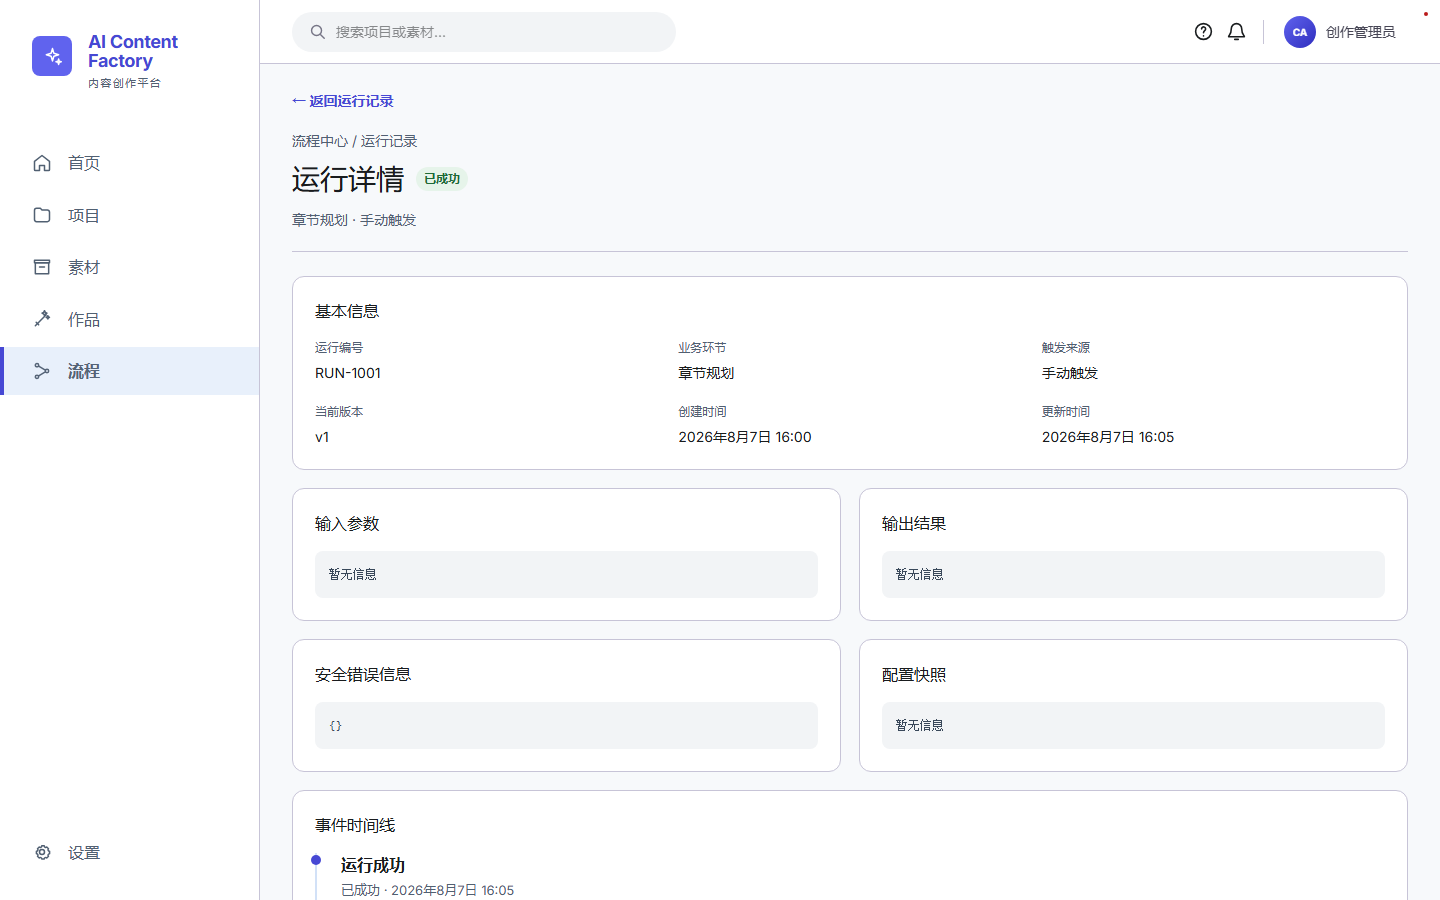
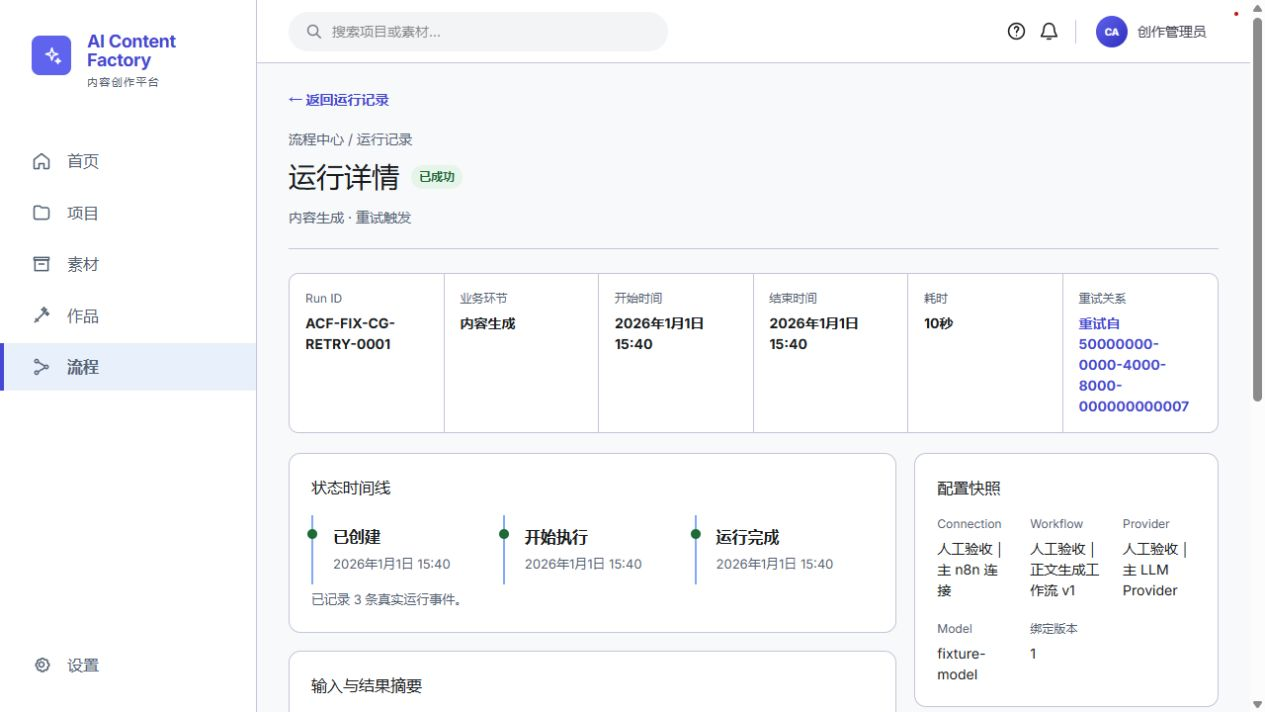
fix(workflow-runs): improve successful run detail

diff --git a/apps/web/src/app/globals.css b/apps/web/src/app/globals.css
@@ -493,6 +493,9 @@ button,a { -webkit-tap-highlight-color:transparent; }
 /* Iteration 14 workflow run detail */
 .workflow-runs-detail-link{color:var(--s00-primary);font-size:13px;font-weight:600;text-decoration:none}.workflow-run-detail-main{min-height:100vh;margin-left:260px;padding:88px 32px 48px;background:var(--s00-surface)}.workflow-run-detail-canvas{max-width:1440px;margin:auto}.workflow-run-detail-canvas>header{display:flex;align-items:end;justify-content:space-between;gap:20px;margin:18px 0 24px;padding-bottom:20px;border-bottom:1px solid var(--s00-outline)}.workflow-run-detail-canvas header p,.workflow-run-detail-canvas header span{margin:0;color:var(--s00-muted);font-size:14px}.workflow-run-detail-canvas h1{display:flex;align-items:center;gap:12px;margin:7px 0;color:var(--s00-ink);font-size:28px}.workflow-run-back{color:var(--s00-primary);font-size:14px;font-weight:600;text-decoration:none}.workflow-run-primary,.workflow-run-danger,.workflow-run-detail-card button,.workflow-run-detail-state button{border:0;border-radius:8px;padding:10px 16px;color:#fff;background:var(--s00-primary);font-weight:700;cursor:pointer}.workflow-run-danger{background:#a3232a}.workflow-run-detail-card{margin:18px 0;padding:22px;border:1px solid var(--s00-outline);border-radius:12px;background:#fff}.workflow-run-detail-card h2{margin:0 0 16px;color:var(--s00-ink);font-size:16px}.workflow-run-detail-card dl{display:grid;grid-template-columns:repeat(3,minmax(0,1fr));gap:20px}.workflow-run-detail-card dt{color:var(--s00-muted);font-size:12px}.workflow-run-detail-card dd{margin:5px 0 0;overflow-wrap:anywhere;color:var(--s00-ink);font-size:14px}.workflow-run-detail-grid{display:grid;grid-template-columns:1fr 1fr;gap:18px}.workflow-run-detail-grid .workflow-run-detail-card{margin:0}.workflow-run-detail-card pre,.workflow-run-timeline pre{max-height:300px;margin:0;padding:14px;overflow:auto;border-radius:8px;color:#39485a;background:var(--s00-low);font:12px/1.6 ui-monospace,Consolas,monospace;white-space:pre-wrap;overflow-wrap:anywhere}.workflow-run-timeline{display:grid;gap:0;margin:0;padding:0;list-style:none}.workflow-run-timeline li{position:relative;padding:0 0 20px 24px;border-left:2px solid #d2e1f7}.workflow-run-timeline li:before{position:absolute;top:2px;left:-6px;width:10px;height:10px;border-radius:50%;background:var(--s00-primary);content:""}.workflow-run-timeline strong,.workflow-run-timeline span{display:block}.workflow-run-timeline span{margin:4px 0 10px;color:var(--s00-muted);font-size:13px}.workflow-run-notice{padding:12px 14px;border-radius:8px;color:#7a271a;background:#ffdad6}.workflow-run-detail-state{display:grid;min-height:440px;place-content:center;justify-items:center;gap:14px;text-align:center}.workflow-run-detail-state span{width:28px;height:28px;border:3px solid #d2e1f7;border-top-color:var(--s00-primary);border-radius:50%;animation:workflow-runs-spin .8s linear infinite}.workflow-run-detail-state h1,.workflow-run-detail-state p{margin:0}.workflow-run-detail-state a{color:var(--s00-primary);font-weight:700}.workflow-run-modal{position:fixed;inset:0;z-index:80;display:grid;place-items:center;padding:24px;background:rgba(25,28,30,.28)}.workflow-run-modal>div{width:min(460px,100%);padding:24px;border-radius:12px;background:#fff;box-shadow:0 24px 48px rgba(15,23,42,.25)}.workflow-run-modal h2{margin:0;color:var(--s00-ink);font-size:20px}.workflow-run-modal p{color:var(--s00-muted);line-height:1.6}.workflow-run-modal footer{display:flex;justify-content:flex-end;gap:12px;margin-top:22px}.workflow-run-modal button{border:1px solid var(--s00-outline);border-radius:8px;padding:9px 14px;color:var(--s00-ink);background:#fff;font-weight:700}.workflow-run-modal button:last-child{border-color:var(--s00-primary);color:#fff;background:var(--s00-primary)}.workflow-run-modal button:disabled{opacity:.55;cursor:not-allowed}@media(max-width:820px){.workflow-run-detail-main{margin-left:0;padding:88px 16px 32px}.workflow-run-detail-canvas>header{align-items:flex-start;flex-direction:column}.workflow-run-detail-card dl,.workflow-run-detail-grid{grid-template-columns:1fr}}
 /* Iteration 14 workflow run center */
+.workflow-run-success-summary{display:grid;grid-template-columns:repeat(6,minmax(120px,1fr));gap:0;margin:0 0 20px;border:1px solid var(--s00-outline);border-radius:10px;background:#fff}.workflow-run-success-summary>div{min-width:0;padding:16px;border-right:1px solid var(--s00-outline)}.workflow-run-success-summary>div:last-child{border-right:0}.workflow-run-success-summary span{display:block;color:var(--s00-muted);font-size:12px}.workflow-run-success-summary strong,.workflow-run-success-summary a{display:block;margin-top:5px;overflow-wrap:anywhere;color:var(--s00-ink);font-size:14px}.workflow-run-success-summary a{color:var(--s00-primary);font-weight:700;text-decoration:none}.workflow-run-success-layout{display:grid;grid-template-columns:minmax(0,1.8fr) minmax(280px,.9fr);gap:18px}.workflow-run-success-layout .workflow-run-detail-card{margin-top:0}.workflow-run-success-aside{display:grid;align-content:start;gap:18px}.workflow-run-success-aside .workflow-run-detail-card{margin:0}.workflow-run-success-timeline{display:grid;grid-template-columns:repeat(3,minmax(0,1fr));gap:12px;margin:0;padding:0;list-style:none}.workflow-run-success-timeline li{position:relative;padding:10px 10px 10px 20px;border-left:2px solid #84a9f4}.workflow-run-success-timeline li:before{position:absolute;top:14px;left:-6px;width:10px;height:10px;border-radius:50%;background:#1e6b36;content:""}.workflow-run-success-timeline strong,.workflow-run-success-timeline span{display:block}.workflow-run-success-timeline span,.workflow-run-success-events,.workflow-run-safe-empty{margin:5px 0 0;color:var(--s00-muted);font-size:13px;line-height:1.6}.workflow-run-success-data{display:grid;grid-template-columns:1fr 1fr;gap:16px}.workflow-run-success-data h3{margin:0 0 8px;color:var(--s00-outline-strong);font-size:12px}.workflow-run-success-data p{margin:0;padding:14px;border-radius:8px;color:var(--s00-muted);background:var(--s00-low);font-size:13px;line-height:1.6}.workflow-run-success-result{display:flex;align-items:center;flex-wrap:wrap;gap:16px}.workflow-run-success-result h2{width:100%;margin-bottom:0}.workflow-run-success-result p{flex:1;min-width:220px;margin:0;color:var(--s00-muted);font-size:14px;line-height:1.65}.workflow-run-success-result .workflow-run-primary{color:#fff;text-decoration:none}.workflow-run-domain-impact{display:grid;gap:8px;margin:0;padding:0;list-style:none}.workflow-run-domain-impact li{display:grid;grid-template-columns:1fr auto;gap:4px 12px;border:1px solid var(--s00-outline);border-radius:7px;padding:10px}.workflow-run-domain-impact strong{color:var(--s00-ink);font-size:13px}.workflow-run-domain-impact span{overflow-wrap:anywhere;color:var(--s00-muted);font-size:12px}.workflow-run-domain-impact em{grid-column:1/-1;color:#1e6b36;font-size:12px;font-style:normal;font-weight:700}
+@media(max-width:1080px){.workflow-run-success-summary{grid-template-columns:repeat(3,minmax(0,1fr))}.workflow-run-success-summary>div:nth-child(3n){border-right:0}.workflow-run-success-layout{grid-template-columns:1fr}}
+@media(max-width:620px){.workflow-run-success-summary,.workflow-run-success-timeline,.workflow-run-success-data{grid-template-columns:1fr}.workflow-run-success-summary>div{border-right:0;border-bottom:1px solid var(--s00-outline)}.workflow-run-success-summary>div:last-child{border-bottom:0}}
 .content-context-tabs{display:flex;margin:-20px -16px 20px;border-bottom:1px solid #dfe2e6}.content-context-tabs button{flex:1;border:0;border-bottom:2px solid transparent;padding:12px 4px;background:#fff;color:#596171;font-weight:800;cursor:pointer}.content-context-tabs button[aria-selected="true"]{border-color:#4648d4;color:#4648d4}.content-generation-drawer{width:min(620px,100%)}.content-generation-drawer fieldset{display:grid;gap:9px;margin:0 0 16px;border:1px solid #dfe2e6;border-radius:8px;padding:12px;color:#313540}.content-generation-drawer fieldset label{display:block;margin:0;font-weight:400}.content-preflight-passed,.content-preflight-blocked{margin-top:14px;border-radius:8px;padding:12px;font-size:13px;line-height:1.55}.content-preflight-passed{border:1px solid #9acfa9;background:#eef9f0}.content-preflight-blocked{border:1px solid #f2aaa3;background:#fff0ee}.content-preflight-passed h3,.content-preflight-blocked h3{margin:0 0 8px}.content-preflight-passed p,.content-preflight-blocked p{margin:5px 0}
 .workflow-runs-main{min-width:0;min-height:100vh;margin-left:260px;padding:88px 32px 48px;background:var(--s00-surface)}.workflow-runs-canvas{width:100%;max-width:1440px;margin:0 auto}.workflow-runs-heading{margin-bottom:28px}.workflow-runs-heading h1{margin:0;color:var(--s00-ink);font-size:32px;line-height:40px;letter-spacing:-.02em}.workflow-runs-heading>p:not(.workflow-runs-breadcrumb):not(.workflow-runs-context){margin:4px 0 0;color:var(--s00-muted);font-size:16px;line-height:24px}.workflow-runs-breadcrumb{display:flex;gap:8px;margin:0 0 8px;color:var(--s00-outline-strong);font-size:12px;letter-spacing:.08em;text-transform:uppercase}.workflow-runs-context{display:inline-block;margin:12px 0 0;padding:5px 10px;border-radius:999px;color:#42526a;background:#e8f0fb;font-size:12px}.workflow-runs-panel{min-width:0;overflow:hidden;border:1px solid var(--s00-outline);border-radius:12px;background:#fff}.workflow-runs-filters{display:flex;align-items:end;gap:12px;flex-wrap:wrap;padding:16px;border-bottom:1px solid var(--s00-outline);background:#fff}.workflow-runs-filters label{display:grid;gap:5px;color:var(--s00-outline-strong);font-size:12px;font-weight:600}.workflow-runs-filters input,.workflow-runs-filters select{height:38px;border:1px solid var(--s00-outline);border-radius:8px;padding:0 12px;outline:none;color:var(--s00-ink);background:#fff;font-size:14px;font-weight:400}.workflow-runs-filters input:focus,.workflow-runs-filters select:focus{border-color:var(--s00-primary);box-shadow:0 0 0 3px rgba(70,72,212,.12)}.workflow-runs-search{width:260px}.workflow-runs-search input{box-sizing:border-box;width:100%}.workflow-runs-reset{height:38px;margin-left:auto;border:0;border-radius:8px;padding:0 12px;color:var(--s00-primary);background:transparent;font-size:14px;font-weight:600;cursor:pointer}.workflow-runs-reset:hover{background:rgba(70,72,212,.08)}.workflow-runs-table{min-width:1120px}.workflow-runs-table-head,.workflow-runs-row{display:grid;grid-template-columns:1.15fr 1fr .9fr .85fr 1fr 1.1fr 1.1fr .8fr;gap:16px;align-items:center;padding:14px 20px}.workflow-runs-table-head{border-bottom:1px solid var(--s00-outline);color:var(--s00-outline-strong);background:var(--s00-low);font-size:12px;font-weight:700}.workflow-runs-row{border-bottom:1px solid #edf0f2;color:#46505d;font-size:14px;line-height:20px}.workflow-runs-row:last-child{border-bottom:0}.workflow-runs-row strong,.workflow-runs-row>span{min-width:0;overflow:hidden;text-overflow:ellipsis;white-space:nowrap}.workflow-runs-row strong{color:var(--s00-ink);font-size:13px}.workflow-runs-row time{color:var(--s00-outline-strong);font-size:13px}.workflow-runs-status{display:inline-block;padding:3px 8px;border-radius:999px;font-style:normal;font-size:12px;font-weight:700;white-space:nowrap}.workflow-runs-status.queued{color:#6d5d10;background:#fff3cd}.workflow-runs-status.running{color:#254e8f;background:#dbeafe}.workflow-runs-status.succeeded{color:#1e6b36;background:#e6f4ea}.workflow-runs-status.failed{color:#93000a;background:#ffdad6}.workflow-runs-status.cancelled,.workflow-runs-status.unknown{color:#59616c;background:#e6e8ea}.workflow-runs-pending{color:var(--s00-outline-strong);font-size:12px}.workflow-runs-state{display:flex;min-height:380px;flex-direction:column;align-items:center;justify-content:center;padding:48px 24px;text-align:center}.workflow-runs-state h2{margin:0;color:var(--s00-ink);font-size:18px}.workflow-runs-state p{max-width:480px;margin:8px 0 0;color:var(--s00-muted);font-size:14px;line-height:22px}.workflow-runs-state.error h2{color:#93000a}.workflow-runs-state.error button{margin-top:20px;border:0;border-radius:8px;padding:10px 18px;color:#fff;background:var(--s00-primary);font-weight:600;cursor:pointer}.workflow-runs-state.loading span{width:28px;height:28px;border:3px solid #d2e1f7;border-top-color:var(--s00-primary);border-radius:50%;animation:workflow-runs-spin .8s linear infinite}@keyframes workflow-runs-spin{to{transform:rotate(360deg)}}@media(max-width:1180px){.workflow-runs-panel{overflow-x:auto}.workflow-runs-reset{margin-left:0}}@media(max-width:820px){.workflow-runs-main{margin-left:0;padding:88px 16px 32px}}@media(max-width:540px){.workflow-runs-heading h1{font-size:28px}.workflow-runs-search{width:100%}.workflow-runs-filters label{flex:1;min-width:130px}.workflow-runs-filters select{width:100%}}
 .content-generation-status{display:flex;align-items:center;justify-content:space-between;gap:16px;padding:10px 32px;border-bottom:1px solid #bdd1f6;color:#174ea6;background:#edf5ff;font-size:13px}.content-generation-status>div:first-child{display:flex;align-items:center;flex-wrap:wrap;gap:10px}.content-generation-status strong{font-size:14px}.content-generation-status span+span:before{margin-right:10px;color:#9aa3ad;content:"|"}.content-generation-status-queued{border-color:#f3d4a2;color:#8a4b00;background:#fff7ea}.content-generation-status-candidate_ready{border-color:#a7d7b5;color:#176a3a;background:#effbf2}.content-generation-status-runtime_failed,.content-generation-status-output_validation_failed,.content-generation-status-result_consumption_failed{border-color:#efb9b3;color:#9a2d28;background:#fff1f0}.content-generation-status-actions{display:flex;align-items:center;flex-wrap:wrap;gap:10px}.content-generation-status button,.content-generation-status a{border:0;color:#164db8;background:transparent;font-weight:800;cursor:pointer;text-decoration:none}.content-generation-status button:last-child{padding:7px 10px;border-radius:6px;color:#fff;background:#245fc5}.content-generation-status button:disabled{opacity:.55;cursor:not-allowed}.content-generation-events{grid-column:1/-1;width:100%;margin:2px 0 0;padding:10px 18px;border-radius:7px;background:rgba(255,255,255,.65);list-style-position:inside}.content-generation-events li{margin:4px 0}.content-generation-events span{margin-left:10px;color:#596171}.content-candidate-compare{margin:16px 24px;border:1px solid #adc0ce;border-radius:10px;background:#f1f7fa}.content-candidate-compare>header{display:flex;align-items:center;justify-content:space-between;gap:14px;padding:14px 16px;border-bottom:1px solid #cbd8e0}.content-candidate-compare header>div{display:flex;align-items:center;flex-wrap:wrap;gap:8px}.content-candidate-compare header span{color:#596171;font-size:12px}.content-candidate-compare button{min-height:32px;border:1px solid #aebdc8;border-radius:6px;padding:0 10px;color:#21425f;background:#fff;font-weight:800;cursor:pointer}.content-candidate-compare .content-candidate-apply{border-color:#245fc5;color:#fff;background:#245fc5}.content-candidate-compare button:disabled{opacity:.55;cursor:not-allowed}.content-candidate-compare article{padding:16px;background:#fff}.content-candidate-compare article h2{margin:0 0 10px;font-size:15px}.content-candidate-compare article p{margin:0;white-space:pre-wrap;line-height:1.8}@media(max-width:900px){.content-generation-status{align-items:flex-start;flex-direction:column;padding:10px 16px}.content-candidate-compare{margin:12px 16px}}

diff --git a/apps/web/src/features/workflow-runs/workflow-run-detail-page.tsx b/apps/web/src/features/workflow-runs/workflow-run-detail-page.tsx
@@ -4,7 +4,7 @@ import Link from "next/link";
 import { useCallback, useEffect, useState } from "react";
 import { ApiError } from "@/lib/api";
 import { newIdempotencyKey } from "@/features/workflow-bindings/workflow-binding-api";
-import { cancelWorkflowRun, formatWorkflowRunJson, getWorkflowRun, getWorkflowRunRetryOptions, listWorkflowRunEvents, retryWorkflowRun, type WorkflowRunDetailVm, type WorkflowRunEventVm, type WorkflowRunRetryMode, type WorkflowRunRetryOptions } from "./workflow-run-api";
+import { cancelWorkflowRun, formatWorkflowRunJson, formatWorkflowRunTime, getWorkflowRun, getWorkflowRunRetryOptions, listWorkflowRunEvents, retryWorkflowRun, type WorkflowRunDetailVm, type WorkflowRunEventVm, type WorkflowRunRetryMode, type WorkflowRunRetryOptions } from "./workflow-run-api";
 
 const apiError = (cause: unknown) => cause instanceof ApiError ? cause : new ApiError("暂时无法获取运行详情。", 0);
 
@@ -23,6 +23,57 @@ function Confirm({ action, busy, retryMode, retryOptions, onCancel, onConfirm, o
   const choices = retryOptions ? [retryOptions.currentConfiguration, retryOptions.originalConfiguration] : [];
   const selected = choices.find((option) => option.mode === retryMode);
   return <div className="workflow-run-modal" role="dialog" aria-modal="true" aria-label={retry ? "确认重试" : "确认取消"}><div><h2>{retry ? "确认重试运行" : "确认取消运行"}</h2><p>{retry ? "请选择服务器确认可用的重试方式。" : "取消后运行将停止，且无法恢复为执行中。"}</p>{retry && choices.map((option) => <label key={option.mode}><input type="radio" name="retry-mode" checked={retryMode === option.mode} disabled={busy || !option.enabled} onChange={() => onRetryModeChange(option.mode)} />{option.mode === "current_configuration" ? "使用当前配置" : "使用原配置"}{!option.enabled && <span>：{option.reasons.map((reason) => reason.message).join(" ")}</span>}</label>)}<footer><button type="button" disabled={busy} onClick={onCancel}>返回</button><button type="button" disabled={busy || (retry && !selected?.enabled)} onClick={onConfirm}>{busy ? "提交中…" : retry ? "确认重试" : "确认取消"}</button></footer></div></div>;
+}
+
+const asRecord = (value: unknown): Record<string, unknown> => value && typeof value === "object" && !Array.isArray(value) ? value as Record<string, unknown> : {};
+const text = (value: unknown, fallback = "—") => typeof value === "string" || typeof value === "number" ? String(value) : fallback;
+const redactSuccessValue = (value: unknown): unknown => {
+  if (Array.isArray(value)) return value.map(redactSuccessValue);
+  if (value && typeof value === "object") return Object.fromEntries(Object.entries(value).map(([key, item]) => /token|secret|password|authorization|api.?key/i.test(key) ? [key, "[已隐藏]"] : [key, redactSuccessValue(item)]));
+  return value;
+};
+const formatSuccessPayload = (value: unknown) => {
+  const safe = redactSuccessValue(value);
+  return safe && typeof safe === "object" && Object.keys(safe).length ? JSON.stringify(safe, null, 2) : "暂无信息";
+};
+
+function SuccessRunDetail({ run, events }: { run: WorkflowRunDetailVm; events: WorkflowRunEventVm[] | null }) {
+  const configuration = asRecord(run.configurationSnapshot);
+  const workflow = asRecord(configuration.workflowConfiguration);
+  const connection = asRecord(configuration.workflowConnection);
+  const policy = asRecord(run.llmPolicySnapshot);
+  const finishedAtLabel = formatWorkflowRunTime(run.finishedAt);
+  const timeline = [
+    ["已创建", run.createdAtLabel],
+    ["开始执行", run.startedAtLabel],
+    ["运行完成", finishedAtLabel]
+  ].filter(([, value]) => value !== "—");
+
+  return <main className="workflow-run-detail-main"><div className="workflow-run-detail-canvas workflow-run-success-detail">
+    <Link className="workflow-run-back" href="/workflow-runs">← 返回运行记录</Link>
+    <header><div><p>流程中心 / 运行记录</p><h1>运行详情 <i className="workflow-runs-status succeeded">{run.statusLabel}</i></h1><span>{run.stageLabel} · {run.triggerSourceLabel}</span></div></header>
+    <section className="workflow-run-success-summary" aria-label="运行摘要">
+      <div><span>Run ID</span><strong>{run.runNumber}</strong></div>
+      <div><span>业务环节</span><strong>{run.stageLabel}</strong></div>
+      <div><span>开始时间</span><strong>{run.startedAtLabel}</strong></div>
+      <div><span>结束时间</span><strong>{finishedAtLabel}</strong></div>
+      <div><span>耗时</span><strong>{run.durationLabel}</strong></div>
+      <div><span>重试关系</span>{run.retryOfRunId ? <Link href={`/workflow-runs/${run.retryOfRunId}`}>重试自 {run.retryOfRunId}</Link> : <strong>首次执行</strong>}</div>
+    </section>
+    <div className="workflow-run-success-layout">
+      <div>
+        <section className="workflow-run-detail-card"><h2>状态时间线</h2><ol className="workflow-run-success-timeline">{timeline.map(([label, value]) => <li key={label}><strong>{label}</strong><span>{value}</span></li>)}</ol>{events?.length ? <p className="workflow-run-success-events">已记录 {events.length} 条真实运行事件。</p> : <p className="workflow-run-success-events">暂无额外运行事件。</p>}</section>
+        <section className="workflow-run-detail-card"><h2>输入与结果摘要</h2><div className="workflow-run-success-data"><div><h3>输入参数</h3><pre>{formatSuccessPayload(run.inputPayload)}</pre></div><div><h3>结果数据</h3>{run.outputPayload ? <pre>{formatSuccessPayload(run.outputPayload)}</pre> : <p>运行已成功，但服务端未提供结果数据摘要。</p>}</div></div></section>
+        <section className="workflow-run-detail-card workflow-run-success-result"><h2>结果摘要</h2><p>Runtime 已成功完成。领域结果以服务端返回的领域影响为准，不会仅根据成功状态推断候选、报告或版本已被消费。</p><Link className="workflow-run-primary" href="/workflow-runs">返回运行记录</Link></section>
+      </div>
+      <aside className="workflow-run-success-aside">
+        <section className="workflow-run-detail-card"><h2>配置快照</h2><dl><div><dt>Connection</dt><dd>{text(connection.name, text(run.connectionName))}</dd></div><div><dt>Workflow</dt><dd>{text(workflow.name, text(run.workflowName))} {workflow.version ? `v${text(workflow.version)}` : run.workflowVersionLabel}</dd></div><div><dt>Provider</dt><dd>{text(policy.providerName, "不使用模型")}</dd></div><div><dt>Model</dt><dd>{text(policy.model, run.modelStrategyLabel)}</dd></div><div><dt>绑定版本</dt><dd>{text(run.bindingSnapshot?.bindingVersion)}</dd></div></dl></section>
+        {run.externalExecutionId && <section className="workflow-run-detail-card"><h2>外部执行信息</h2><dl><div><dt>外部执行 ID</dt><dd>{run.externalExecutionId}</dd></div></dl></section>}
+        <section className="workflow-run-detail-card"><h2>领域影响</h2>{run.domainImpact.length ? <ul className="workflow-run-domain-impact">{run.domainImpact.map((impact, index) => <li key={`${impact.resourceType}-${impact.resourceId ?? index}`}><strong>{impact.resourceType}</strong><span>{impact.resourceId ?? "—"}</span><em>{impact.outcome}</em></li>)}</ul> : <p className="workflow-run-safe-empty">服务端未返回领域影响记录；这不表示已创建或消费任何领域结果。</p>}</section>
+        <section className="workflow-run-detail-card"><h2>运行元数据</h2><dl><div><dt>创建时间</dt><dd>{run.createdAtLabel}</dd></div><div><dt>更新时间</dt><dd>{run.updatedAtLabel}</dd></div><div><dt>当前版本</dt><dd>v{run.version}</dd></div></dl></section>
+      </aside>
+    </div>
+  </div></main>;
 }
 
 export function WorkflowRunDetailPage({ runId }: { runId: string }) {
@@ -77,6 +128,7 @@ export function WorkflowRunDetailPage({ runId }: { runId: string }) {
 
   if (error) return <main className="workflow-run-detail-main"><section className="workflow-run-detail-state" role="alert"><h1>无法打开运行详情</h1><p>该运行不存在或暂时无法获取。</p><button type="button" onClick={() => void load()}>重新加载</button><Link href="/workflow-runs">返回运行记录</Link></section></main>;
   if (!run) return <main className="workflow-run-detail-main"><section className="workflow-run-detail-state" role="status"><span /><p>正在加载运行详情…</p></section></main>;
+  if (run.status === "succeeded") return <SuccessRunDetail run={run} events={events} />;
   const retryAvailable = Boolean(retryOptions?.currentConfiguration.enabled || retryOptions?.originalConfiguration.enabled);
   return <main className="workflow-run-detail-main"><div className="workflow-run-detail-canvas"><Link className="workflow-run-back" href="/workflow-runs">← 返回运行记录</Link><header><div><p>流程中心 / 运行记录</p><h1>运行详情 <i className={`workflow-runs-status ${run.status}`}>{run.statusLabel}</i></h1><span>{run.stageLabel} · {run.triggerSourceLabel}</span></div><div>{run.canCancel && <button type="button" className="workflow-run-danger" onClick={() => setAction("cancel")}>取消运行</button>}{run.canRetry && retryAvailable && <button type="button" className="workflow-run-primary" onClick={() => setAction("retry")}>重新运行</button>}</div></header>{notice && <p className="workflow-run-notice" role="alert">{notice}</p>}<section className="workflow-run-detail-card"><h2>基本信息</h2><dl><div><dt>运行编号</dt><dd>{run.runNumber}</dd></div><div><dt>业务环节</dt><dd>{run.stageLabel}</dd></div><div><dt>触发来源</dt><dd>{run.triggerSourceLabel}</dd></div><div><dt>当前版本</dt><dd>v{run.version}</dd></div><div><dt>创建时间</dt><dd>{run.createdAtLabel}</dd></div><div><dt>更新时间</dt><dd>{run.updatedAtLabel}</dd></div></dl></section><div className="workflow-run-detail-grid"><JsonBlock title="输入参数" value={run.inputPayload} /><JsonBlock title="输出结果" value={run.outputPayload} /><JsonBlock title="安全错误信息" value={{ 错误编号: run.errorCode ?? "暂无", 错误说明: run.errorMessage ?? "暂无", 详情: run.errorDetails ?? {} }} /><JsonBlock title="配置快照" value={run.configurationSnapshot} /></div><Timeline events={events} error={eventsError} retry={() => void listWorkflowRunEvents(runId).then(setEvents).then(() => setEventsError(false)).catch(() => setEventsError(true))} /></div>{action && <Confirm action={action} busy={busy} retryMode={retryMode} retryOptions={retryOptions} onCancel={() => setAction(null)} onConfirm={() => void doAction()} onRetryModeChange={setRetryMode} />}</main>;
 }
